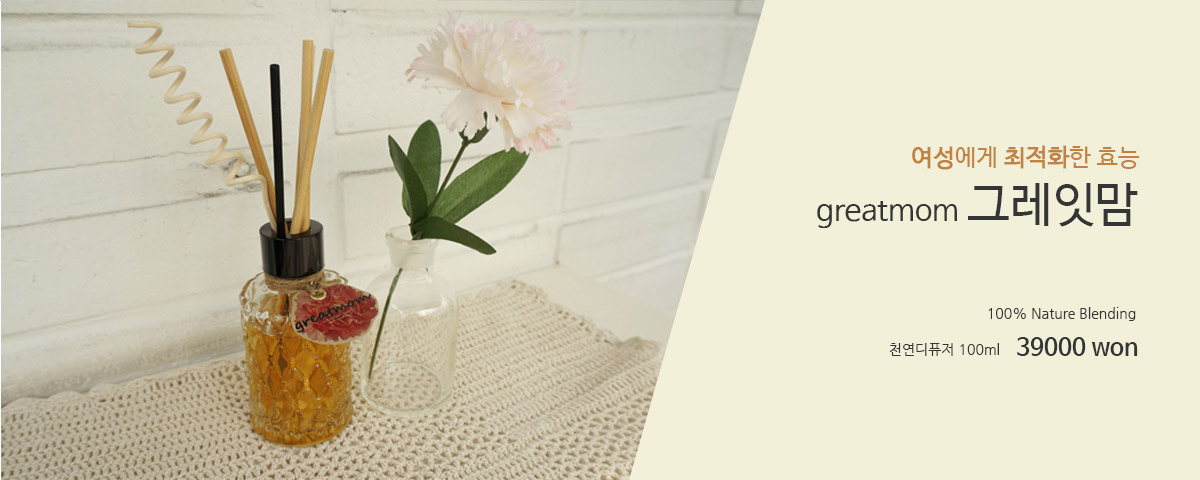
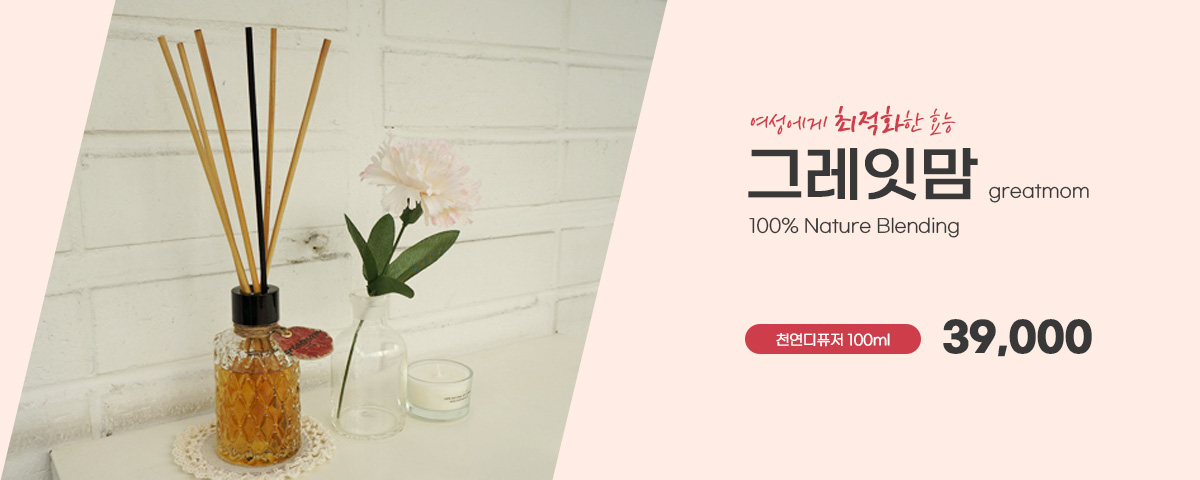
file update

diff --git a/pages/PS/css/style.css b/pages/PS/css/style.css
@@ -59,7 +59,21 @@ img{border:0;vertical-align:top;}
 #header #main_menu_wrap #main_menu ul li .submenu li a:hover{font-weight:normal;color:#ff9d9e;}
 /*.submenu li:hover a{font-weight:normal;color:#353535;}*/
 /*mainVisual*/
-#mainVisual{width:1200px;height:480px;margin:0 auto;clear:both;}
+#mainVisual{width:100%;height:480px;margin:0 auto;clear:both;}
+#mainVisual .slider > div:first-child{background-color: #fef4ff;}
+#mainVisual .slider > div:nth-child(2){background-color: #ffede4;}
+#mainVisual .slider > div:nth-child(3){background-color: #fffde4;}
+#mainVisual .bx-wrapper{margin-bottom: 0;border: 0;box-shadow: unset;}
+#mainVisual .bx-wrapper img{margin: 0 auto;}
+#mainVisual .bx-wrapper .bx-controls-direction a{padding: 16px;border-radius: 50%;background: url(../images/arrow2.png) no-repeat center center / contain;opacity: 0.5;}
+#mainVisual .bx-wrapper .bx-controls-direction .bx-prev{transform: rotate(180deg);}
+#mainVisual .bx-wrapper .bx-controls-direction .bx-next{}
+#mainVisual .bx-wrapper .bx-prev:hover,#mainVisual .bx-wrapper .bx-prev:focus,
+#mainVisual .bx-wrapper .bx-next:hover,#mainVisual .bx-wrapper .bx-next:focus{background-position: center;opacity: 1;;}
+#mainVisual .bx-wrapper .bx-pager{padding-top: 0;bottom: 16px;}
+#mainVisual .bx-wrapper .bx-pager.bx-default-pager a{background-color: #fff;}
+#mainVisual .bx-wrapper .bx-pager.bx-default-pager a:hover,#mainVisual .bx-wrapper .bx-pager.bx-default-pager a.active,#mainVisual .bx-wrapper .bx-pager.bx-default-pager a:focus{background-color: #ff9d9e;}
+
 /*container*/
 .wrap{width:1200px;margin:0 auto;}
 .photo{width:377px;height:auto;position:relative;}
@@ -69,7 +83,7 @@ a:hover .photoBox{opacity:0.7;}
 .photo span{display:block;position:absolute;z-index:1;
     top:158px;left:138px;width:90px;height:20px;text-align:center;line-height:20px;
     border:1px solid #fff;color:#fff;display:none;}
-.photo a{display: inline-block; width: 377px; height: 316px;background-color:#000; overflow:hidden;}
+.photo a{display: inline-block; width: 377px; height: 316px; border-radius: 10px; background-color:#000; overflow:hidden;}
 .photo a img{ transition: all .3s;}
 .photo a:hover img{transform: scale(1.2);}
 .photo a:hover span{display:block;}
@@ -82,10 +96,11 @@ a:hover .photoBox{opacity:0.7;}
 #container .title{font:bold 16px/32px '나눔바른고딕';text-align:center;}
 #container .price{font-size:14px;line-height:21px;text-align:center;color:#c18243;font-weight:bold;}
 /*best_item*/
-#container #con_best{padding:40px 0;height:auto;margin:50px 0;background:#fff6f6;}
-#container #con_main{height:483px;}
+#container #con_best{height:auto;margin:50px auto;}
+#container #con_main{padding:40px 0;background:#fff6f6;}
 /*set_item*/
-#container #con_set{height:400px;position:relative;overflow:hidden;}
+#container #con_set{height:400px;padding: 50px 0;position:relative;background: #ffd0d0;}
+#container #con_set .wrap{position: relative;height: 100%;overflow: hidden;}
 #container #con_set ul li{float:left;position:absolute;top:0;}
 #container #con_set ul li:first-child{left:0;}
 #container #con_set ul li:last-child{left:1200px;margin-left:0;}
@@ -95,10 +110,10 @@ a:hover .photoBox{opacity:0.7;}
 #container #nav a{display:inline-block;width:15px;height:15px;border-radius:15px;border:2px solid #c18243;box-sizing:border-box;text-indent:-9999px;}
 #container #nav a.on{display:inline-block;width:15px;height:15px;border-radius:15px;background-color:#c18243;text-indent:-9999px;}
 /*popular_item*/
-#container #con_pop{height:auto;margin:50px 0;padding:40px 0;background:#f7f7f7;clear:both;}
+#container #con_pop{height:auto;padding:40px 0;background:#f7f7f7;clear:both;}
 #container #con_pop ul{overflow:hidden;}
 /*event_item*/
-#container #con_event{height:400px;overflow:hidden;}
+#container #con_event{height:400px;margin-top: 50px;overflow:hidden;}
 #container #con_event #ev01{width:788px;height:400px;background-color:#c18243;float:left;margin-right:35px;}
 #container #con_event #ev02,#ev03{width:376px;height:185px;background-color:#000;float:right;}
 #container #con_event #ev03{margin-top:32px;}
@@ -106,10 +121,11 @@ a:hover .photoBox{opacity:0.7;}
 #container #sns{clear:both;width:100%;height:155px;box-sizing:border-box;}
 #container #sns ul{width:232px;height:70px;margin:0 auto;margin-top:54px;}
 #container #sns ul li{margin:10px;/*filter:grayscale(1);*/}
-#container #sns ul li a.btn{display:block;width:57px;height:57px;overflow:hidden;position:relative;}
+#container #sns ul li a.btn{display:block;width:57px;height:57px;overflow:hidden;position:relative;opacity: 0.5;}
+#container #sns ul li a:hover.btn{opacity: 1;}
 #container #sns ul li a:hover.btn img{position:absolute;top:-57px;}
 /*footer*/
-#footer{width:100%;height:280px;background-color:#ccc;}
+#footer{width:100%;height:280px;background-color:#f8f8f8;}
 #footer #footer_wrap{width:1200px;margin:0 auto;padding-top:55px;}
 #footer #ps_info{width:580px;float:left;}
 #footer #ps_info ul{width:230px;overflow:hidden;}

diff --git a/pages/PS/index.html b/pages/PS/index.html
@@ -67,6 +67,7 @@
         </div>
     </div>
   </div>
+
   <div id="mainVisual">
     <div class="slider">
       <div><a href="#"><img src="images/mainvisual01.jpg" alt="mainVisual"></a></div>
@@ -74,9 +75,9 @@
       <div><a href="#"><img src="images/mainvisual03.jpg" alt="mainVisual"></a></div>
     </div>
   </div>
+
   <div id="container">
-    <div id="con_best">
-      <div class="wrap">
+    <div id="con_best" class="wrap">
         <h2>BEST ITEM</h2>
         <ul>
           <li class="photo"><a href="detail.html"><img src="images/best01.jpg" alt="모던 아로마 100ml" class="photoBox"><span>VIEW MORE</span></a>
@@ -92,9 +93,9 @@
               <p class="price">34,000원</p>
           </li>
         </ul>
-      </div>
     </div>
-    <div id="con_main" class="wrap">
+    <div id="con_main">
+      <div class="wrap">
         <h2>MAIN ITEM</h2>
         <ul>
             <li class="photo"><a href="#"><img src="images/main01.jpg" alt="greatmom 천연디퓨저 100ml" class="photoBox"><span>VIEW MORE</span></a>
@@ -110,8 +111,10 @@
                 <p class="price">26,000원</p>
             </li>
         </ul>
+      </div>
     </div>
-    <div id="con_set" class="wrap">
+    <div id="con_set">
+      <div class="wrap">
         <ul>
             <li><a href="#"><img src="images/set01.jpg" alt="종합향기박스 2호"></a></li>
             <li><a href="#"><img src="images/set02.jpg" alt="종합향기박스 2호"></a></li>
@@ -120,6 +123,7 @@
             <a href="#set_item01">banner1</a>
             <a href="#set_item02">banner2</a>
         </div>
+      </div>
     </div>
     <div id="con_pop">
       <div class="wrap">

diff --git a/pages/PS/js/main.js b/pages/PS/js/main.js
@@ -3,11 +3,10 @@ $(function(){
         auto: true,
         speed: 500,
         mode: 'fade',
-        captions: true,
-        slideWidth: 1200,        
+        captions: true,        
       });
 
-	var visual = $('#con_set > ul > li');
+	var visual = $('#con_set  ul > li');
     var button = $('#nav > a');
     var current = 0;
     var setIntervalId;
